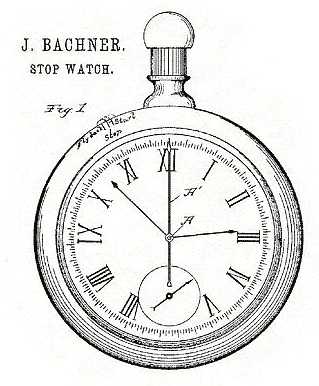
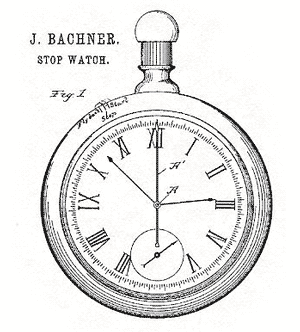
updating templates

diff --git a/views/outline/0.html b/views/outline/0.html
@@ -11,22 +11,88 @@
   <hr />
   <!-- insert views/policy/coursework.html -->
   <!-- insert views/policy/attribution.html -->
-  <article id="workflow" class="margins">
+  <article id="web-development-workflow" class="margins" data-classification="advice web-development">
     <h2>The Web Development Workflow</h2>
     <p>Today’s lecture is titled <a href="http://en.wikipedia.org/wiki/Mise_en_place">mis en place</a>, a French culinary phrase which means <q>everything in its place,</q> because it is the one thing every student can <strong>easily</strong> achieve that will guarantee a positive impact in any profession involving precision and craft. Having the proper resources and tools (and learning their correct usage) will both reduce the amount of mistakes and increase the amount of joy you feel with your efforts. I sincerely promise, learning a few tools efficiently will change the trajectory of your time in front of a computer forever.</p>
-    <h3 class="tt">The Web Designer/Developers Fundamental<sup>*</sup> Toolkit</h3>
-    <p class="note"><sup>*</sup> Mind, I say fundamental for a reason—there are many more tools you are likely become familiar with, ranging from media and graphics editors, to online tools, to reference materials and tutorial sites.</p>
-    <ul class="whitepaper">
-      <li>A text editor, or more accurately, a <a href="https://en.wikipedia.org/wiki/Source_code_editor">Source Code Editor</a></li>
-      <li>A modern <a href="https://en.wikipedia.org/wiki/Web_browser">web browser</a> (I suggest Google Chrome as it will be used in class and to evaluate all coursework)</li>
-      <li>An <a href="https://en.wikipedia.org/wiki/File_Transfer_Protocol"><abbr title="File Transfer Protocol">FTP</abbr> Client</a></li>
-      <li>The <a href="https://developer.chrome.com/devtools">Web Development console</a>; built into modern browsers and we will use the hell out of it.</li>
-      <li>The <abbr title="World Wide Web Consortium">W3C</abbr> Validators (<a href="https://validator.w3.org/">Markup</a> and <a href="https://jigsaw.w3.org/css-validator/">Cascading Style Sheets</a>)</li>
-      <li>Awareness of documentation and resources (Such as <a href="https://developer.mozilla.org/en-US/">The Mozilla Developer network</a> [preferred] and <a href="http://www.w3schools.com/">W3Schools</a>)</li>
-      <li>Typing profiency (or practice if needed), and the learning of keyboard shortcuts.</li>
-      <li>Understanding <a href="https://en.wikipedia.org/wiki/Software_documentation">Software Documentation</a> <em>Documentation is very much a tool</em>, and reading and writing it are skills to acquire.</li>
-      <li>As far as this class is concerned, ake sure you poke around <a href="https://www.lynda.com/">Lynda.com</a>—I'll reference it frequently. I watch it myself quite a bit and you should too!</li>
-    </ul>
+    <section class="tt">
+      <h3>The Web Developer’s Fundamental Toolkit</h3>
+      <ul class="pad stylized star">
+        <li>A text editor, or more accurately, a <a href="https://en.wikipedia.org/wiki/Source_code_editor">Source Code Editor</a>. There many options, too many to list. In class I will use <a href="https://atom.io/">Atom</a> or <a href="http://brackets.io/">Brackets</a> as they have the features we need and are cross-platform compatible.</li>
+        <li>A modern <a href="https://en.wikipedia.org/wiki/Web_browser">web browser</a> (I suggest Google Chrome as it will be used in class and to evaluate all coursework)</li>
+        <li>An <a href="https://en.wikipedia.org/wiki/File_Transfer_Protocol"><abbr title="File Transfer Protocol">FTP</abbr> Client</a></li>
+        <li>The <a href="https://developer.chrome.com/devtools">Web Development console</a>; built into modern browsers and we will use the hell out of it.</li>
+        <li>The <abbr title="World Wide Web Consortium">W3C</abbr> Validators (<a href="https://validator.w3.org/">Markup</a> and <a href="https://jigsaw.w3.org/css-validator/">Cascading Style Sheets</a>)</li>
+        <li>Awareness of documentation and resources (Such as <a href="https://developer.mozilla.org/en-US/">The Mozilla Developer network</a> [preferred] and <a href="http://www.w3schools.com/">W3Schools</a>)</li>
+        <li>Typing profiency (or practice if needed), and the learning of keyboard shortcuts.</li>
+        <li>Understanding <a href="https://en.wikipedia.org/wiki/Software_documentation">Software Documentation</a> <em>Documentation is very much a tool</em>, and reading and writing it are skills to acquire.</li>
+        <li>As far as this class is concerned, ake sure you poke around <a href="https://www.lynda.com/">Lynda.com</a>—I'll reference it frequently. I watch it myself quite a bit and you should too!</li>
+      </ul>
+      <p class="note">Mind, I say fundamental for a reason—there are many more tools you are likely become familiar with, ranging from media and graphics editors, to online tools, to reference materials and tutorial sites.</p>
+    </section>
+    <section class="tt">
+      <img src="/media/images/running-man.png" class="animate"/>
+      <h3>Web Development as a Process</h3>
+      <p>Iteration is not only beneficial for idea generation, but it also is paramount to successful project management. There are several things that impede good work—especially for those just starting. One of them is knowing where to start. Another is feeling like you grasp the material enough to actually author it yourself. The last, and biggest hurdle, is actually completing a project on time and satisfying clients.</p>
+      <hr class="ruled tt bb"/>
+      <div class="container margins t">
+        <h4 class="vertical">Starting</h4>
+        <p>Starting the idea for a project is difficult—especially when you have not had a bolt of inspiration. The way around this is to simply start and not look for something profound to happen right away. Designers should right away learn to not treat their work as precious.</p>
+        <p>Many professional designers know that a process of iterative improvement works well. You research topics, you sketch, you research, you refine the sketch, you research, you erase parts of the sketch and start over. Though the tool in this class is a keyboard and abstract symbols, we will honor the same iterative process; learn and research a little bit, get the fingers on a keyboard and apply an idea and stretch it out. Go to bed and do that again the next day for a little bit. <em>Do not expect anything profound to happen</em>—great design comes from lots of little steps that add up to something bigger.</p>
+
+        <h4 class="vertical">Authoring</h4>
+        <p>Authorship is not something to undervalue. Essentially it implies that you understand the techniques involved and the decision made to produce an outcome of your choosing. This is what separates professionals from amateurs.</p>
+        <p>Process plays the key role in authorship—and this course will encourage that iterative process. There is a technique {insert actual technique} in <abbr title="Interaction Design">IxD</abbr> that says the best way to prevent mistakes is to make them impossible. The authoring process can be used to ensure that plagiarism just doesn't make any sense by making it awkward to implement.</p>
+        <p>The way this is done is through iterative development. That means that spending 5 straight hours in one sitting—which is not recommended anyway—is worth the less than spending an hour <em>a few days of the week</em>. The goal of stringing together several hours here and there is much more beneficial than the <a href="https://en.wikipedia.org/wiki/Waterfall_model">waterfall approach</a> to developing both concepts as well as understanding design decisions.</p>
+        
+
+        <h4 class="vertical">Finishing</h4>
+        <p>Finishing to some satisfying endpoint has many facets: personal, academic and of course, acknowledgement from your peers and advisors. In some ways, finishing is impossible—there is always something that can be tuned or adjusted, continued research leads to better and more interesting solutions. Knowing when to finish and move on is actually a skill that could be considered heuristic—that is, a personal solution may be best found through trial and error or a hands-on approach.</p>
+        <p>Finishing to a satisfactory end also means that you <em>started</em> in a very different place. A finished project is an order of magnitude different than the one you started with, and if it is not, then either you are the world’s best planner, or the project is likely pedestrian in concept and execution.</p>
+      </div>
+    </section>
+    <style type="text/css" media="screen">
+      /* <![CDATA[ */
+      @keyframes run {
+        0% {object-position: 0 0}
+        100% {object-position:100% 0}
+      }
+
+      .animate {
+        mix-blend-mode: multiply;
+        float:left;
+        width: 75px;
+        height:130px;
+        object-fit:cover;
+        object-position:0 0;
+        margin:1em;
+        shape-outside: polygon(30% 0, 100% 65%, 110% 90%, 0 100%);
+        animation: run 2s steps(9) infinite;
+      }
+      
+      .animate:hover {
+        animation-duration:500ms;
+      }
+
+      .vertical {
+        clear: left;
+        padding:0.75em 1.5em;
+        margin: 0.25em 1.5em 0.25em 0;
+        font-family: 'Avenir Next';
+        text-transform: uppercase;
+        box-shadow: inset -0.25em 0 0.25em -0.125em rgba(0,0,0,0.1);
+        float:left;
+        letter-spacing:0.125em;
+        writing-mode: vertical-lr;
+        text-orientation: upright;
+      }
+      .vertical + p:first-line {
+        font-weight:800;
+      }
+      .instagram {
+        filter: contrast(1.4) invert(0.2) saturate(2.5) sepia(0.2);
+      }
+      /* ]]> */
+    </style>
   </article>
   <!-- replace lecture nextSibling-->
   <!-- insert views/outline/_/template.html -->

diff --git a/views/outline/swm/6.html b/views/outline/swm/6.html
@@ -31,6 +31,38 @@
       <li>I won’t talk further about <a href="https://developer.mozilla.org/en-US/docs/Web/CSS/CSS_Animations">keyframe animations</a> in this course—you’re welcome to explore them on your own.</li>
     </ul>
   </article>
+  <article>
+    <h2>Animation</h2>
+    <p>At its core, <a href="https://developer.mozilla.org/en-US/docs/Web/CSS/@keyframes">keyframe animation</a>.</p>
+    <div class="filmstrip">
+      <input type="range" value="0" oninput="this.parentNode.style.animationDuration = this.value + 'ms'" min="0" max="1000" step="10"/>
+      <input type="range" value="10" oninput="this.parentNode.style.width = this.value + '%'" min="10" max="100" step="10"/>
+      <style type="text/css" media="screen">
+        /* <![CDATA[ */
+        
+        @keyframes run {
+          0% {background-position: 100% 0}
+          100% {background-position:0 0}
+        }
+        .filmstrip input {
+          display:block;
+        }
+        .filmstrip {
+          background-image:url(/media/images/dog-running.png);
+          background-repeat: no-repeat;
+          mix-blend-mode: darken;
+          height:130px;
+          width:10%;
+
+        }
+        .filmstrip:hover {
+          animation: run 1000ms steps(15) infinite;
+        }
+        
+        /* ]]> */
+      </style>
+    </div>
+  </article>
   <article class="margins">
     <h2>More on Attributes</h2>
     <h4>Selectors</h4>

diff --git a/views/outline/aswm/4.html b/views/outline/aswm/4.html
@@ -1,7 +1,7 @@
 <div>
   <header>
     <!-- insert views/outline/_/crumbs.html -->
-    <img src="/media/images/stop-watch-1886-patent.png" style="mix-blend-mode: multiply;shape-outside:circle(40% at 50% 60%);width:30%;shape-margin:2em;" class="tt float left"/>
+    <img src="/media/images/stop-watch-1886-patent.png" style="mix-blend-mode: multiply;shape-outside:circle(40% at 50% 60%);width:32.5%;shape-margin:2em;" class="tt float left"/>
     <h1 class="massive">Controlling time</h1>
     <p class="intro">Date objects, intervals and timeouts let you time when code executes. At this point, we’ll look at the profile.js file from earlier in the semester, introducing <abbr title="json with padding">JSONP</abbr>. On your own, it will be beneficial to introduce yourself to methods of amending your <abbr>HTML</abbr> with data, and investigate ways to make program state persist by researching topics like data attributes and localStorage.</p>
   </header>

diff --git a/views/css/guide.css b/views/css/guide.css
@@ -40,8 +40,8 @@ blockquote q {text-indent:-1em;}
 abbr[title]{cursor:help;}
 i,.i,q:not([class]) {font-style:italic;}
 em, .em {font-style:oblique}
-
 strong,.strong{font-weight:600}
+.thin {font-weight:100;}
 
 ._________  {width:90%}
 .mmmmmmmmm  {margin-left:90%}
@@ -109,7 +109,15 @@ strong,.strong{font-weight:600}
 
 .float {box-sizing:border-box}
 
-
+hr.ruled {
+  border-width: 0;
+  clear: both;
+  height: 1px;
+  background-image: linear-gradient(90deg, rgba(0,0,0,0.125) 50%, rgba(255,255,255,0) 0%);
+  background-position: bottom;
+  background-size: 2em 1px;
+  background-repeat: repeat-x;
+}
 
 .column.ruled > * {border-right-width:1px}
 

diff --git a/views/layouts/journal.html b/views/layouts/journal.html
@@ -84,7 +84,7 @@
         while (count-- > 0) ctx.fillRect(Math.random() * limit, Math.random() * limit, 1, 1);
         return "url(" + canvas.toDataURL("image/png") + ")";
       }
-      var out = 'body {background-image:'+noise(0.1, 250) + ', ' + noise(0.1, 250)+';background-position:0 0, 50px -50px, 20px 30px;}';
+      var out = 'body, .noise {background-image:'+noise(0.1, 250) + ', ' + noise(0.1, 250)+';background-position:0 0, 50px -50px, 20px 30px;}';
       document.head.appendChild(document.createElement('style')).textContent = out;
       window.bloc.load();
       // ]]>

diff --git a/views/policy/attribution.html b/views/policy/attribution.html
@@ -1,4 +1,4 @@
-<article class="page">
+<article id="attribution-and-fair-use" class="page" data-classification="policy">
   <h2>Attribution and Fair Use</h2>
   <p class="intro">An anecdote and oft-cited example, <q>to</q> <q>be</q> <q>or</q> <q>not</q> <q>to</q> <q>be</q> are short, insignificant words, but in that order, they are famous and remarkable.</p>
   <section class="full three indented columns dropcap">

diff --git a/views/css/themes/journal.css b/views/css/themes/journal.css
@@ -14,6 +14,10 @@ body {
   padding: 0 0 0 0.125em;
   vertical-align: baseline;
 }
+abbr[title^='Interaction'] {
+  text-transform:none;
+  font-variant: normal;
+}
 
 .read,
 .watch {
